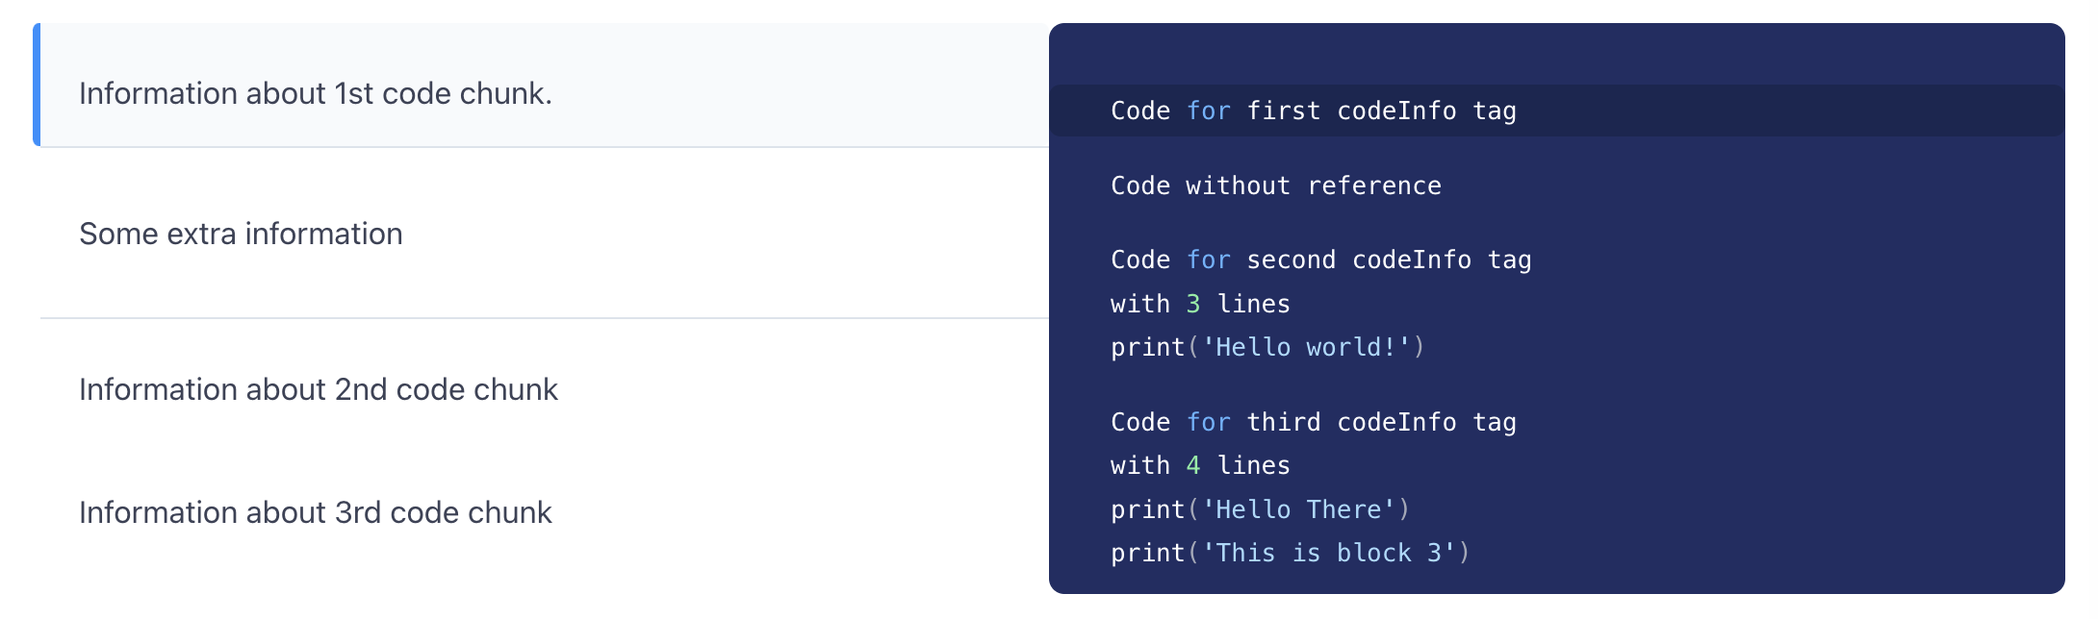
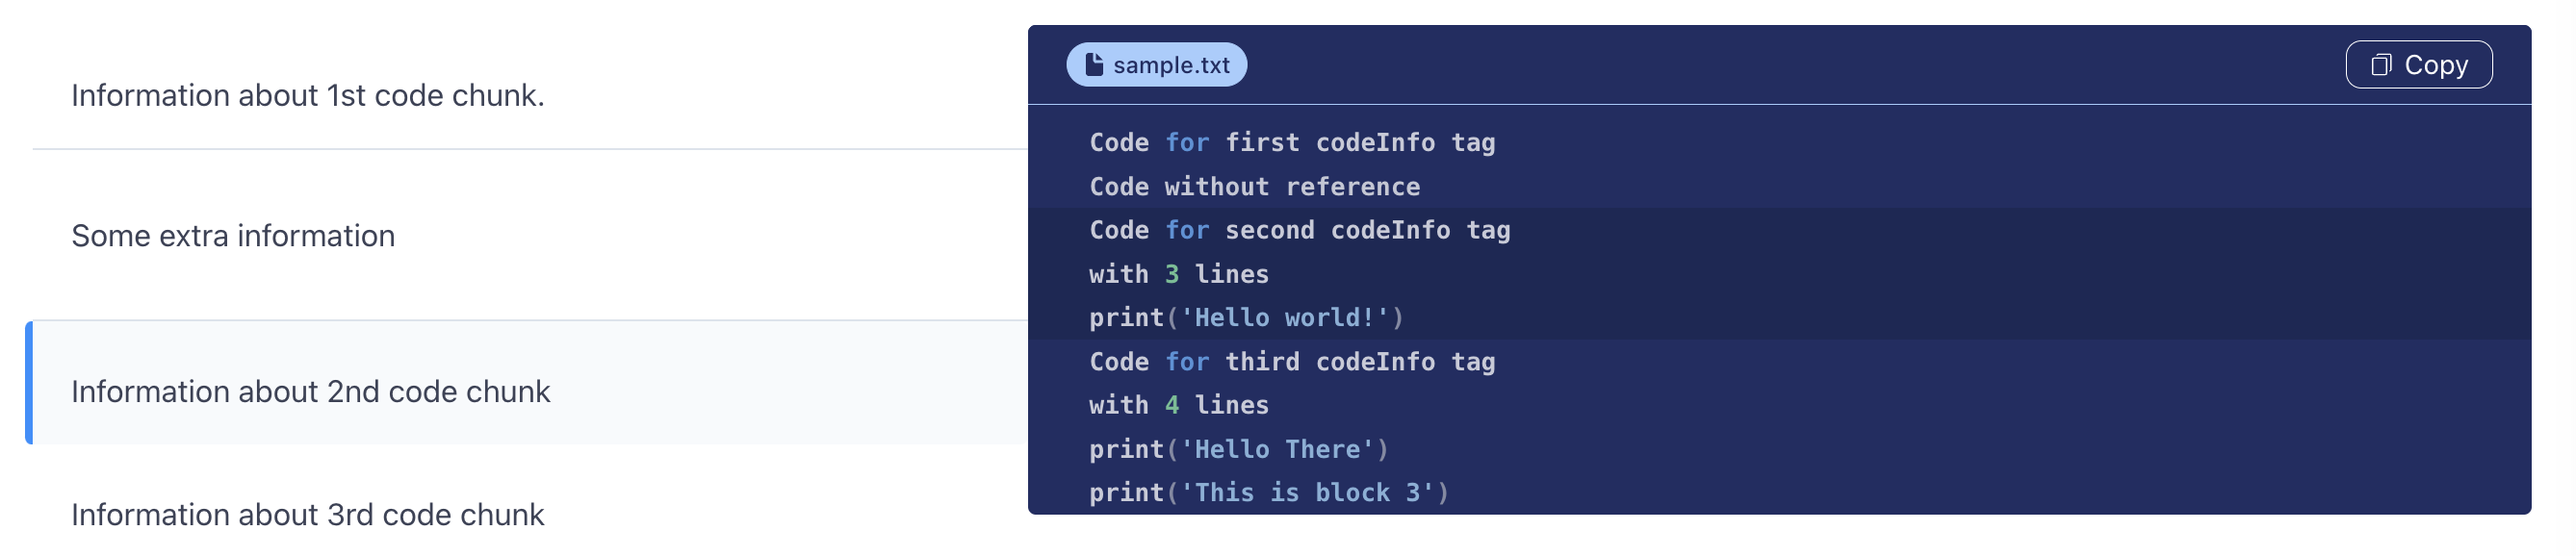
Updated README file content for new codePreview changes

diff --git a/README.md b/README.md
@@ -56,6 +56,11 @@ It's a tag for which will contain explanation or information about a chuck of co
 
 A container tag to enclose all the code chunks you will write for each steps given with 'codeInfo' tag. Make sure to maintain the same order you want 'codeInfo' tags to be associated with it.
 
+#### Attributes - 
+
+1. fileName (type - String)
+   This is an optional argument. Pass the name of the file in which the code given inside the `codeBlock` tag is supposed to be.
+
 #### code/fence node (```)
 
 Please make sure to pass an argument **srNumber** to the code node to link with the respective codeInfo section. This will determine which code block to highlight for which codeInfo section.
@@ -89,7 +94,7 @@ Information about 3rd code chunk
 
 {% /codeInfoContainer %}
 
-{% codeBlock %}
+{% codeBlock fileName="sample.txt" %}
 
 \`\`\`bash {% srNumber=1 %}
 Code for first codeInfo tag
